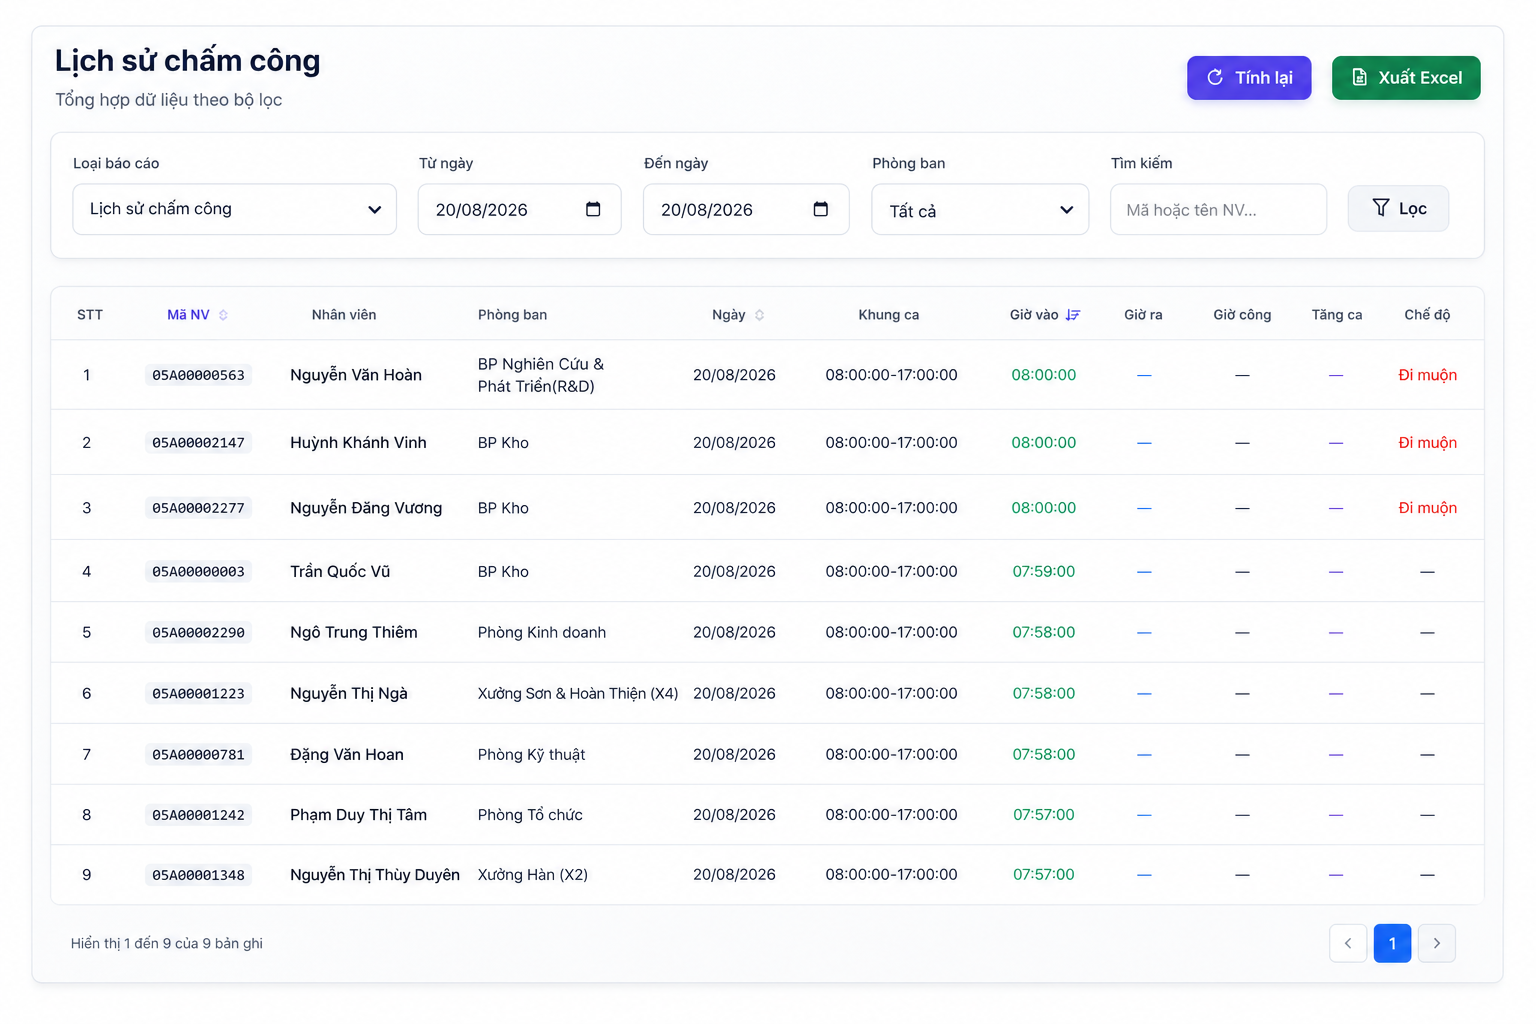
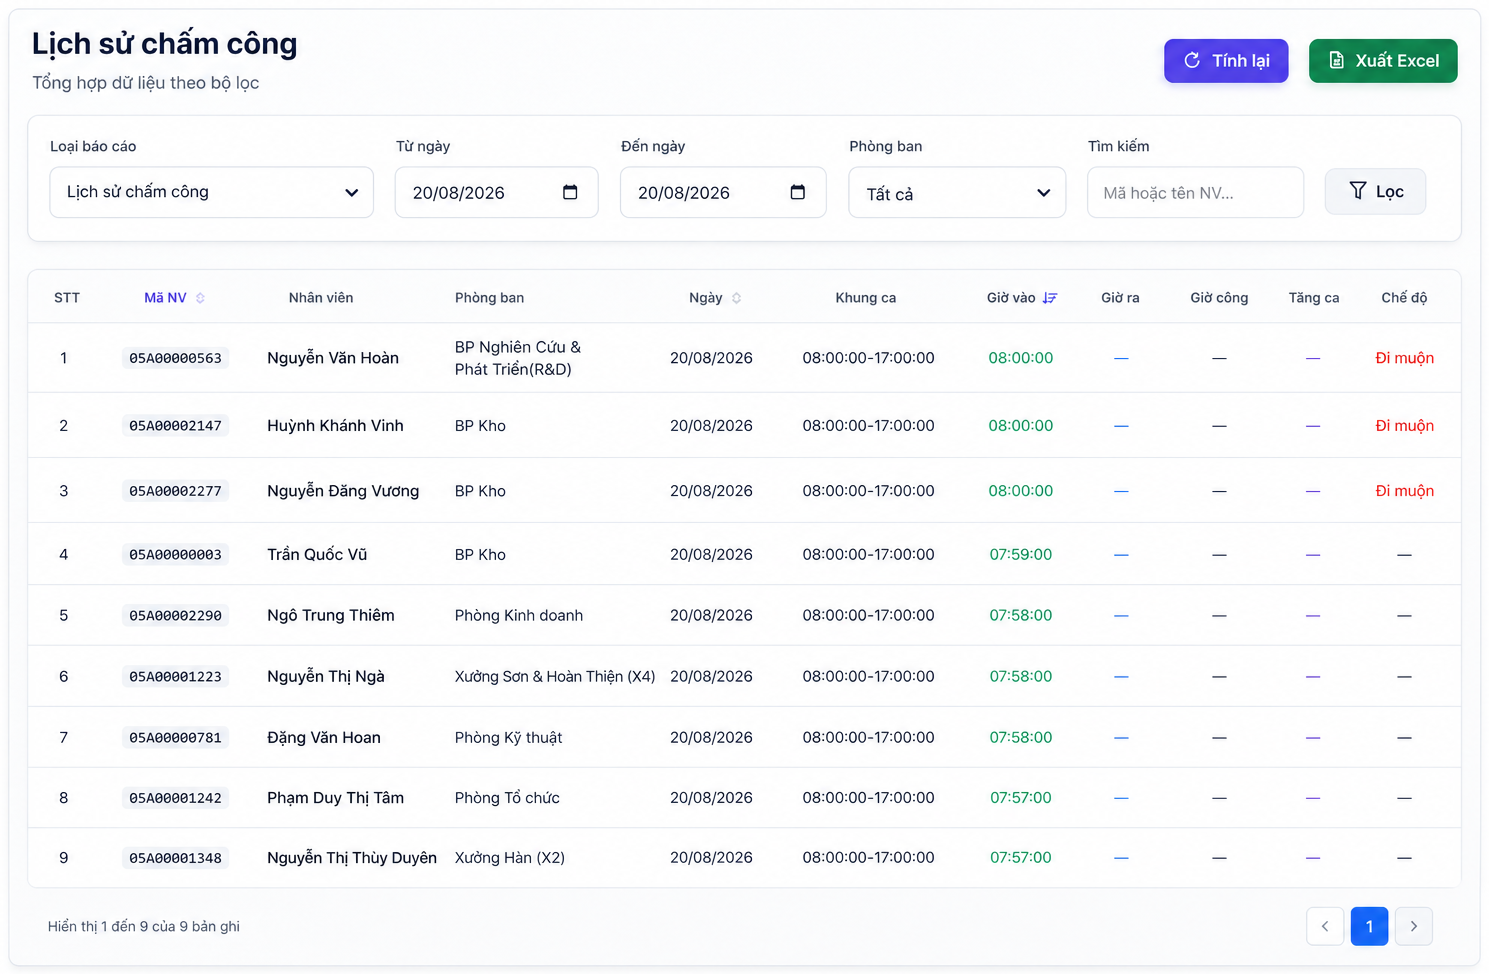
fix(features): tightly crop whitespace around attendance table to fill container perfectly

diff --git a/src/components/site/PublicPages.tsx b/src/components/site/PublicPages.tsx
@@ -51,9 +51,9 @@ export function FeaturesContent({ locale }: { locale: Locale }) {
             <Image
               src="/features-attendance.png"
               alt="nATime - Lịch sử chấm công"
-              width={1536}
-              height={1024}
-              className="w-full h-auto block object-contain"
+              width={1489}
+              height={974}
+              className="w-full h-auto block"
               priority
             />
           </div>

diff --git a/src/components/sections/Features.tsx b/src/components/sections/Features.tsx
@@ -129,8 +129,8 @@ export default function Features() {
               <Image
                 src="/features-attendance.png"
                 alt="nATime - Lịch sử chấm công"
-                width={1600}
-                height={1000}
+                width={1489}
+                height={974}
                 className="w-full h-auto block"
               />
             </div>
